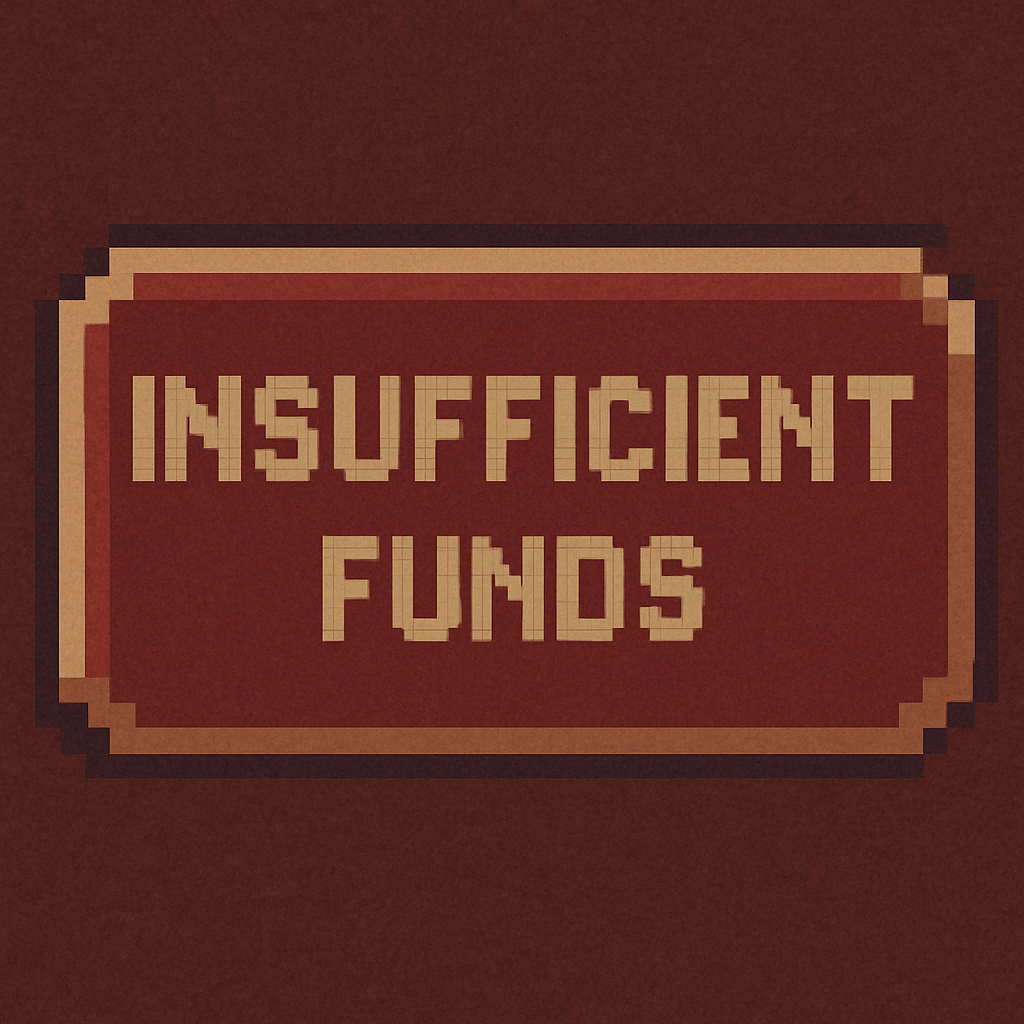
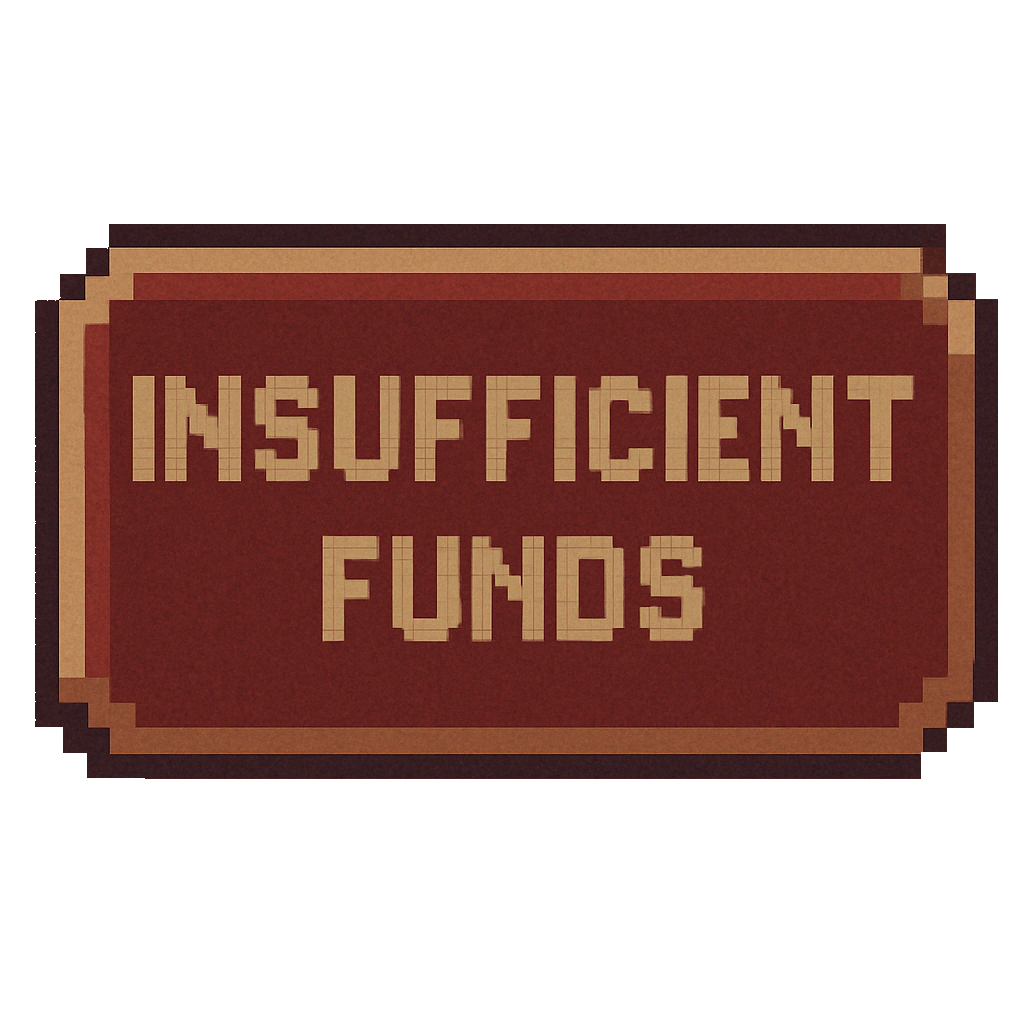
Full functionality for insufficient fund notif

diff --git a/Assets/Scripts/TowerPlacementManager/TowerPlacementManager.cs b/Assets/Scripts/TowerPlacementManager/TowerPlacementManager.cs
@@ -25,6 +25,8 @@ public class TowerPlacementManager : MonoBehaviour
 
     public int cost = 50;
 
+    public Image insuffFunds;
+
     // Update is called once per frame
     void Update()
     {
@@ -82,19 +84,47 @@ public class TowerPlacementManager : MonoBehaviour
             isDragging = true;
             previewTower = Instantiate(towerPrefab);
             previewTower.GetComponent<Collider2D>().enabled = false;
-            previewTower.GetComponent<SpriteRenderer>().color = new Color(1f, 1f, 1f, 1f); // semi-transparent
+            previewTower.GetComponent<SpriteRenderer>().color = new Color(1f, 1f, 1f, 1f);
 
             rangeVisual = previewTower.transform.Find("RangeVisual");
             rangeRenderer = rangeVisual.GetComponent<SpriteRenderer>();
             rangeVisual.gameObject.SetActive(true);
-
         }
         else
         {
             Debug.Log("NOT ENOUGH MONEY!");
+            StartCoroutine(ShowInsufficientFunds());
         }
+    }
 
+    private IEnumerator ShowInsufficientFunds()
+    {
+        RectTransform rect = insuffFunds.GetComponent<RectTransform>();
+        Vector2 startPos = rect.anchoredPosition;
+        Vector2 targetPos = new Vector2(startPos.x, 464); // Slide up
+        float duration = 0.3f;
+        float elapsed = 0f;
 
+        // Move up
+        while (elapsed < duration)
+        {
+            rect.anchoredPosition = Vector2.Lerp(startPos, targetPos, elapsed / duration);
+            elapsed += Time.deltaTime;
+            yield return null;
+        }
+        rect.anchoredPosition = targetPos;
+
+        yield return new WaitForSeconds(1.5f); // Hold visible for a moment
+
+        // Move down
+        elapsed = 0f;
+        while (elapsed < duration)
+        {
+            rect.anchoredPosition = Vector2.Lerp(targetPos, startPos, elapsed / duration);
+            elapsed += Time.deltaTime;
+            yield return null;
+        }
+        rect.anchoredPosition = startPos;
     }
 
     private bool IsValidPlacement(Vector3Int gridPos)
